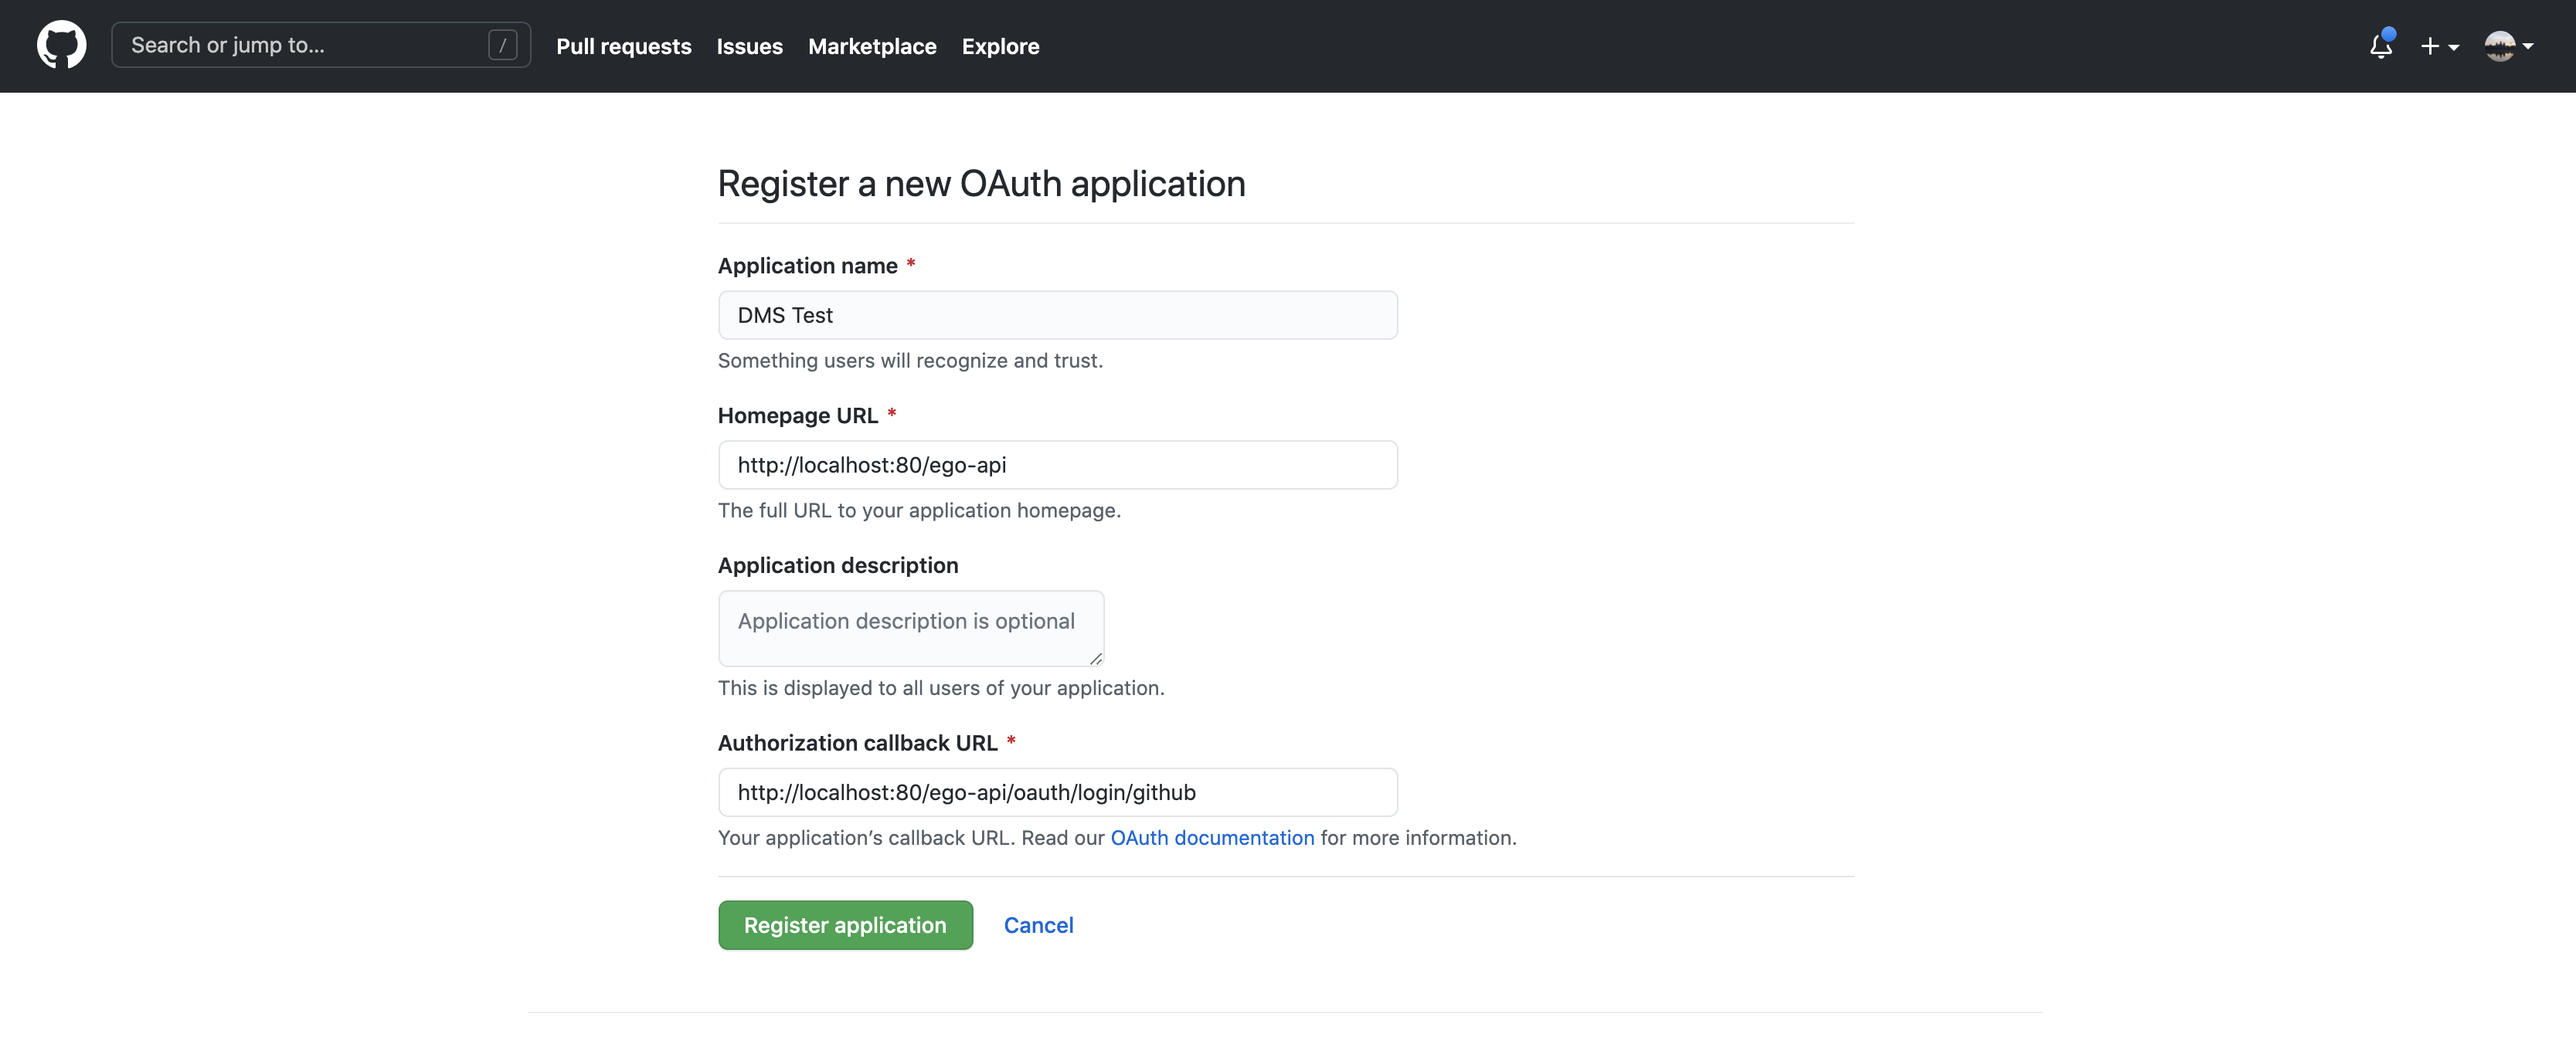
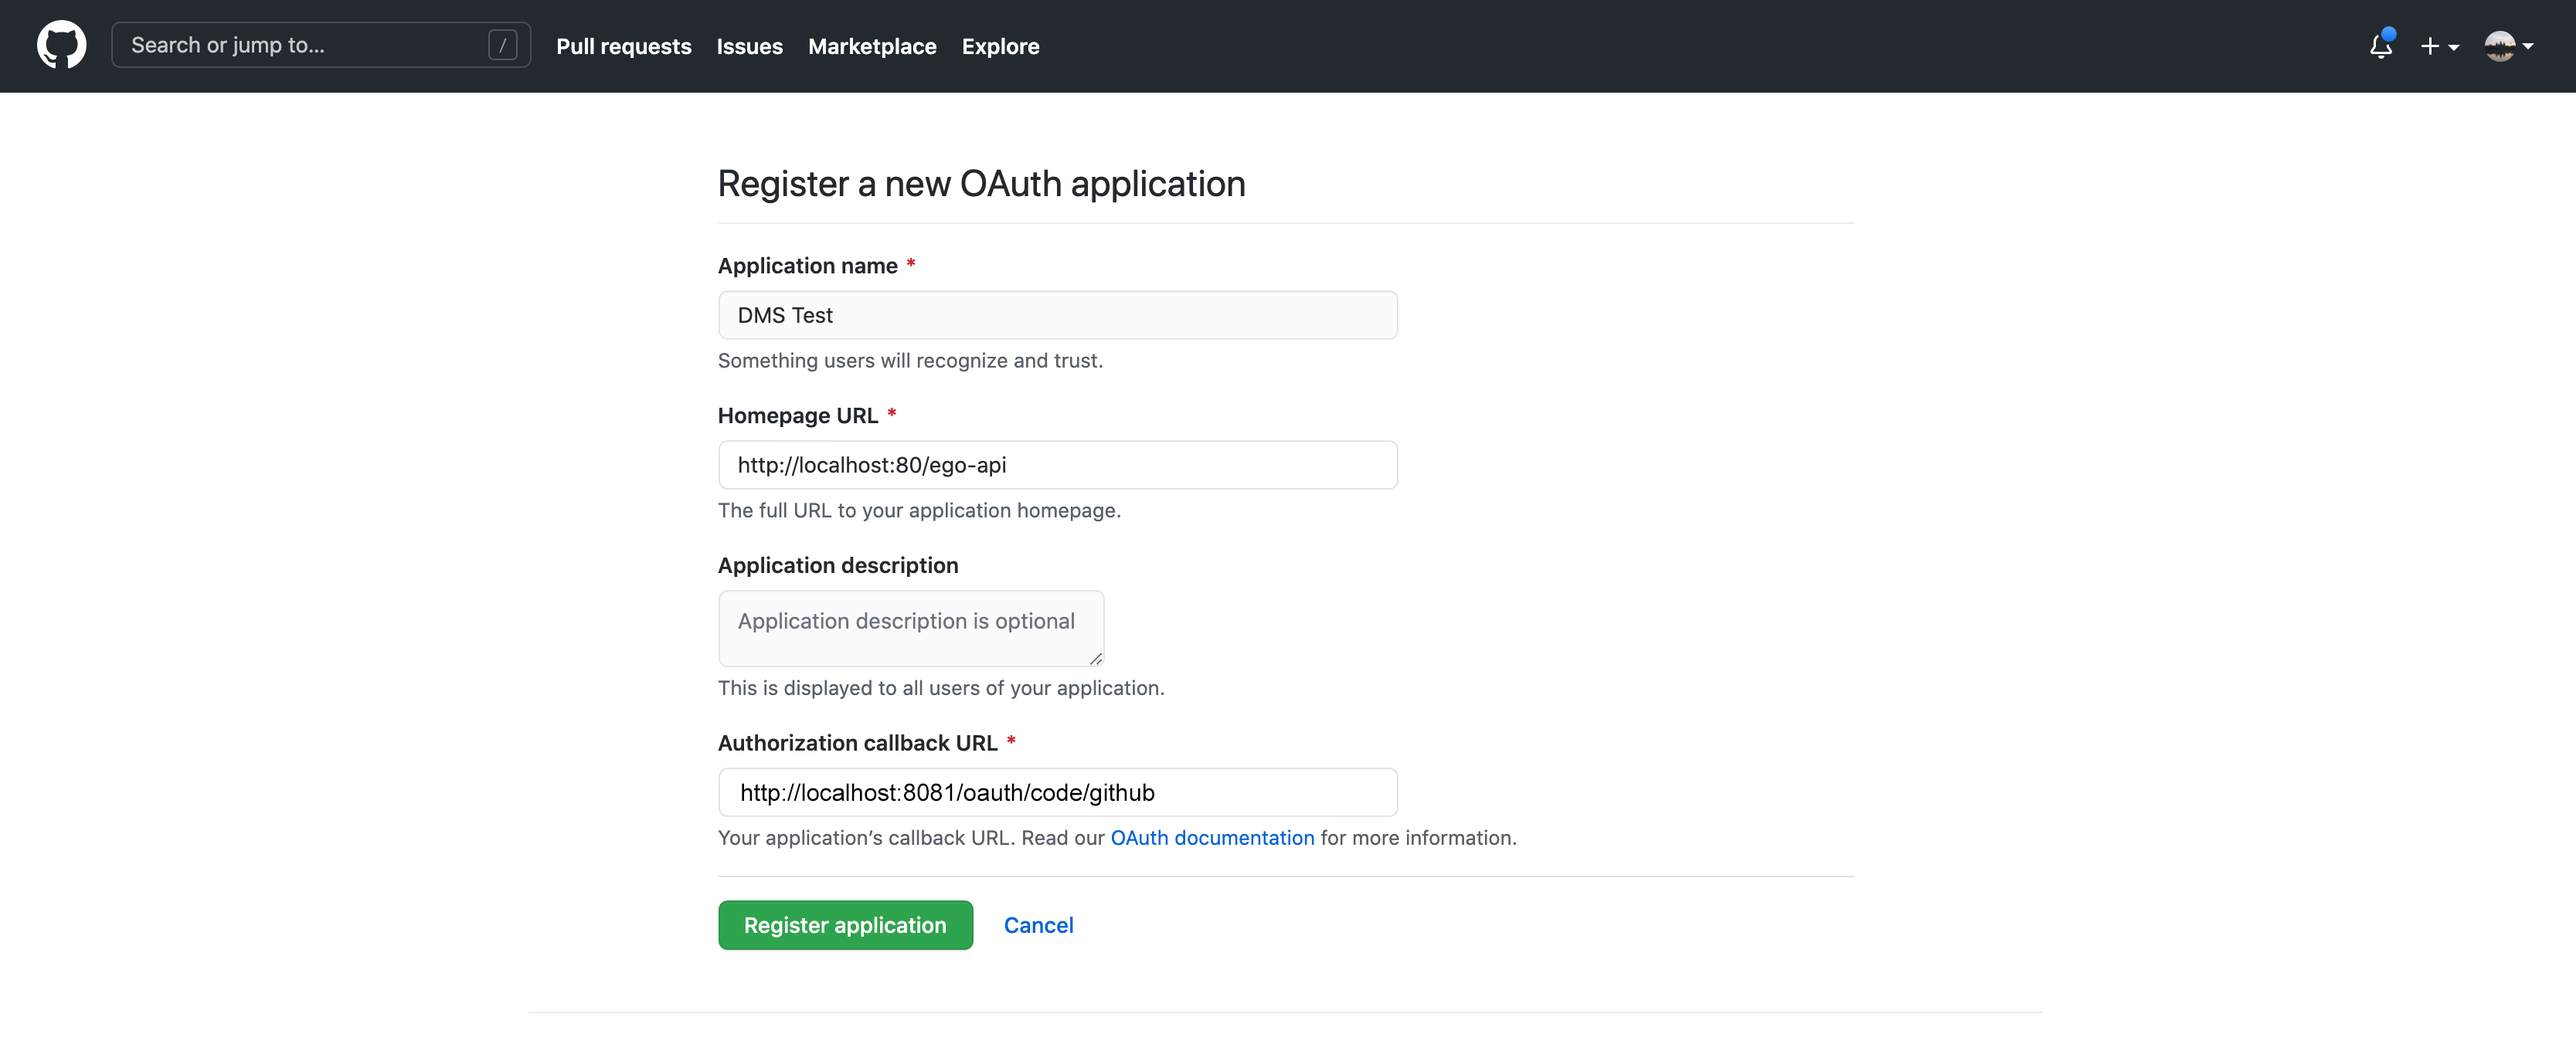
Updated ego oauth redirct uri for each service provider + images

Changed region(s): [[0.2807, 0.8412, 0.4055, 0.9347], [0.2807, 0.7478, 0.4679, 0.7789]]

diff --git a/markdown/documentation/dms/installation/configuration/prereq/secrets.md b/markdown/documentation/dms/installation/configuration/prereq/secrets.md
@@ -71,8 +71,8 @@ However, specifically for the DMS setup, see the summary steps below for acquiri
 
 | Mode               | URI |
 | --------------------| ------------|
-| Local   | http://localhost:`<port>`/ego-api/oauth/login/google |
-| Server  | https://`<myDomain>`/ego-api/oauth/login/google |
+| Local   | http://localhost:`<port>`/oauth/code/google |
+| Server  | https://`<myDomain>`/oauth/code/google |
 
 Where:
 - `<port>` is the port on which you will deploy the DMS Gateway in local mode
@@ -123,8 +123,8 @@ Where:
 
 | Mode               | URI |
 | --------------------| ------------|
-| Local   | http://localhost:`<port>`/ego-api/oauth/login/github |
-| Server  | https://`<myDomain>`/ego-api/oauth/login/github |
+| Local   | http://localhost:`<port>`/oauth/code/github |
+| Server  | https://`<myDomain>`/oauth/code/github |
 
 Where:
 - `<port>` is the port on which you will deploy the DMS Gateway in local mode
@@ -181,8 +181,8 @@ However, specifically for the DMS setup, see the summary steps below for acquiri
 
 | Mode               | URI |
 | --------------------| ------------|
-| Local   | http://localhost:`<port>`/ego-api/oauth/login/linkedin |
-| Server  | https://`<myDomain>`:443/ego-api/oauth/login/linkedin |
+| Local   | http://localhost:`<port>`/oauth/code/linkedin |
+| Server  | https://`<myDomain>`:443/oauth/code/linkedin |
 
 Where:
 - `<port>` is the port on which you will deploy the DMS Gateway in local mode
@@ -254,8 +254,8 @@ Where `<myDomain>` is the registered [domain you will configure](../domain) for 
 
 | Mode               | URI |
 | --------------------| ------------|
-| Local   | http://localhost:`<port>`/ego-api/oauth/login/orcid |
-| Server  | https://`<myDomain>`/ego-api/oauth/login/orcid |
+| Local   | http://localhost:`<port>`/oauth/code/orcid |
+| Server  | https://`<myDomain>`/oauth/code/orcid |
 
 Where:
 - `<port>` is the port on which you will deploy the DMS Gateway in local mode

diff --git a/markdown/documentation/ego/installation/prerequisites/google.md b/markdown/documentation/ego/installation/prerequisites/google.md
@@ -4,7 +4,7 @@ title: Google OAuth Setup
 
 For full details on setting up OAUTH 2.0 for an application to work with Google, see the <a href="https://support.google.com/cloud/answer/6158849?hl=en" target="_blank" rel="noopener noreferrer">Official Google Developer Documentation</a>.
 
-For your convenience, we provide summary steps here:
+For your convenience, we provide a summary of the steps here:
 
 1. **Create an account with <a href="https://console.developers.google.com/" target="_blank" rel="noopener noreferrer">Google Developer Console</a>:** If you don't already have one. If you are an individual working alone with the Overture suite, you may use a personal account. However, if you work for a larger organization or institution, consult your IT department for a designated account.
 
@@ -53,15 +53,14 @@ For your convenience, we provide summary steps here:
 - **Application type:** Set to `Web application`
 - **Name:** Enter a name for the client
 
-11. **Add Authorized Redirect URIs:** Under Under **Authorized redirect URIs**, add a URI. This is the URI where Google will redirect users once they have authenticated with the provider. The URI should be in the following format:
+11. **Add Authorized Redirect URIs:** Under **Authorized Redirect URIs**, add a URI. This is the URI where Google will redirect users once they have authenticated with the provider. The URI should be in the following format:
 
-`<url>/ego-api/oauth/login/google`
+`<url>/oauth/code/google`
 
 Replace `<url>` with the base URL where you have deployed Ego. For example:
 
-- `https://ego.overture.bio/ego-api/oauth/login/google`
-- `https://dms.test.cancercollaboratory.org/ego-api/oauth/login/google`
-- `http://localhost:80/ego-api/oauth/login/google`
+- `http://localhost:8081/oauth/code/google`
+- `https://ego.overture.bio/oauth/code/google`
 
 12. **Click Create:** Click on **Create** to proceed:
 

diff --git a/markdown/documentation/dms/installation/verify/index.md b/markdown/documentation/dms/installation/verify/index.md
@@ -69,7 +69,7 @@ If running, the Swagger API will be accessible via your browser in graphical for
 Before logging into the Ego UI, you may wish to check again that all your identity providers have the correctd **redirect URI** configured in their developer console's OAUTH 2.0 settings.  This was configured earlier when [setting up your secrets](../configuration/prereq/secrets), but double-checking is a good practice.
 
 The redirect URI you must authorize can be found in that provider's Ego configuration section in the `~/.dms/config.yaml` file.  Look for the `preEstablishedRedirectUri`.  In the example below, the
-`preEstablishedRedirectUri` for Google is `https://dms.test.cancercollaboratory.org:443/ego-api/oauth/login/google`
+`preEstablishedRedirectUri` for Google is `https://dms.test.cancercollaboratory.org:443/oauth/code/google`
 
 ```shell
 ego:
@@ -86,7 +86,7 @@ ego:
       google:
         clientId: "abc123"
         clientSecret: "abc123"
-        preEstablishedRedirectUri: "https://dms.test.cancercollaboratory.org:443/ego-api/oauth/login/google"
+        preEstablishedRedirectUri: "https://dms.test.cancercollaboratory.org:443/oauth/code/google"
 ```
 
 <Warning>**NOTE:** When entering the domain in LinkedIn for server mode, you **must** append the port `:443` to the end of the domain.  The true redirect URI sent by the DMS actually contains `:443` suffixed to the domain.  While other identity providers ignore or drop this suffix, LinkedIn requires the redirect URI to match exactly, hence `:443` must be explicitly entered.</Warning>

diff --git a/markdown/documentation/dms/installation/configuration/configure-dms/index.md b/markdown/documentation/dms/installation/configuration/configure-dms/index.md
@@ -389,19 +389,19 @@ ego:
       google:
         clientId: "abc123"
         clientSecret: "abc123"
-        preEstablishedRedirectUri: "https://dms.test.cancercollaboratory.org:443/ego-api/oauth/login/google"
+        preEstablishedRedirectUri: "https://dms.test.cancercollaboratory.org:443/oauth/code/google"
       github:
         clientId: "abc123"
         clientSecret: "abc123"
-        preEstablishedRedirectUri: "https://dms.test.cancercollaboratory.org:443/ego-api/oauth/login/github"
+        preEstablishedRedirectUri: "https://dms.test.cancercollaboratory.org:443/oauth/code/github"
       linkedin:
         clientId: "abc123"
         clientSecret: "abc123"
-        preEstablishedRedirectUri: "https://dms.test.cancercollaboratory.org:443/ego-api/oauth/login/linkedin"
+        preEstablishedRedirectUri: "https://dms.test.cancercollaboratory.org:443/oauth/code/linkedin"
       orcid:
         clientId: "abc123"
         clientSecret: "abc123"
-        preEstablishedRedirectUri: "https://dms.test.cancercollaboratory.org:443/ego-api/oauth/login/orcid"
+        preEstablishedRedirectUri: "https://dms.test.cancercollaboratory.org:443/oauth/code/orcid"
     url: "https://dms.test.cancercollaboratory.org:443/ego-api"
     dmsAppCredential:
       name: "dms"

diff --git a/markdown/documentation/ego/installation/prerequisites/linkedin.md b/markdown/documentation/ego/installation/prerequisites/linkedin.md
@@ -36,8 +36,8 @@ For your convenience, we provide summary steps below:
 
 7. **Configure Authorized Redirect URL:** In the app's top navigation menu, go to **Auth** and under **OAuth 2.0 settings**, add an **Authorized redirect URL** for your app. This is the URI where LinkedIn will redirect users once they have authenticated with the provider (i.e., redirect them back to Ego once logged in successfully). Depending on your deployment, enter the following:
 
-- **Local:** http://localhost:`<port>`/ego-api/oauth/login/linkedin
-- **Server:** https://`<myDomain>`:443/ego-api/oauth/login/linkedin 
+- **Local:** http://localhost:`<port>`/oauth/code/linkedin
+- **Server:** https://`<myDomain>`:443/oauth/code/linkedin 
 
 8. **Use Client ID and Client Secret:** During [Ego installation](/documentation/ego/installation/installation), provide the **Client ID** and **Client Secret** when prompted. **However, LinkedIn requires a few additional steps after Ego installation for the process to be complete.**
 

diff --git a/markdown/documentation/ego/installation/prerequisites/orcid.md b/markdown/documentation/ego/installation/prerequisites/orcid.md
@@ -40,8 +40,8 @@ For your convenience, we provide summary steps here:
 
 8. **Add Redirect URIs:** Under **Redirect URIs**, enter the URI where ORCiD will redirect users once they have authenticated with the provider, redirecting them back to Ego upon successful login:
 
-  - **Local:** http://localhost:`<port>`/ego-api/oauth/login/orcid
-  - **Server:**  https://`<myDomain>`/ego-api/oauth/login/orcid
+  - **Local:** http://localhost:`<port>`/oauth/code/orcid
+  - **Server:**  https://`<myDomain>`/oauth/code/orcid
 
 <Warning>**NOTE:** ORCiD may give a warning that "**Only https redirect URIs are accepted**", but can still enter an HTTP URI as indicated above. The application will still save and the Client ID and Secret will still be generated.</Warning>
 

diff --git a/markdown/documentation/ego/installation/prerequisites/github.md b/markdown/documentation/ego/installation/prerequisites/github.md
@@ -23,8 +23,8 @@ For your convenience, we provide summary steps below:
 
 6. **Configure Authorized Callback URIs:** In the **Authorized callback URIs** field, enter the URL where GitHub will redirect users once they have authenticated with the provider (i.e., redirect them back to Ego once logged in successfully). Depending on your deployment, enter the following:
 
- - **Local:** http://localhost:`<port>`/ego-api/oauth/login/github
-  - **Server:** https://`<myDomain>`/ego-api/oauth/login/github
+ - **Local:** http://localhost:`<port>`/oauth/code/github
+  - **Server:** https://`<myDomain>`/oauth/code/github
 
 7. **Register the Application:** Click on **Register application.**
 
